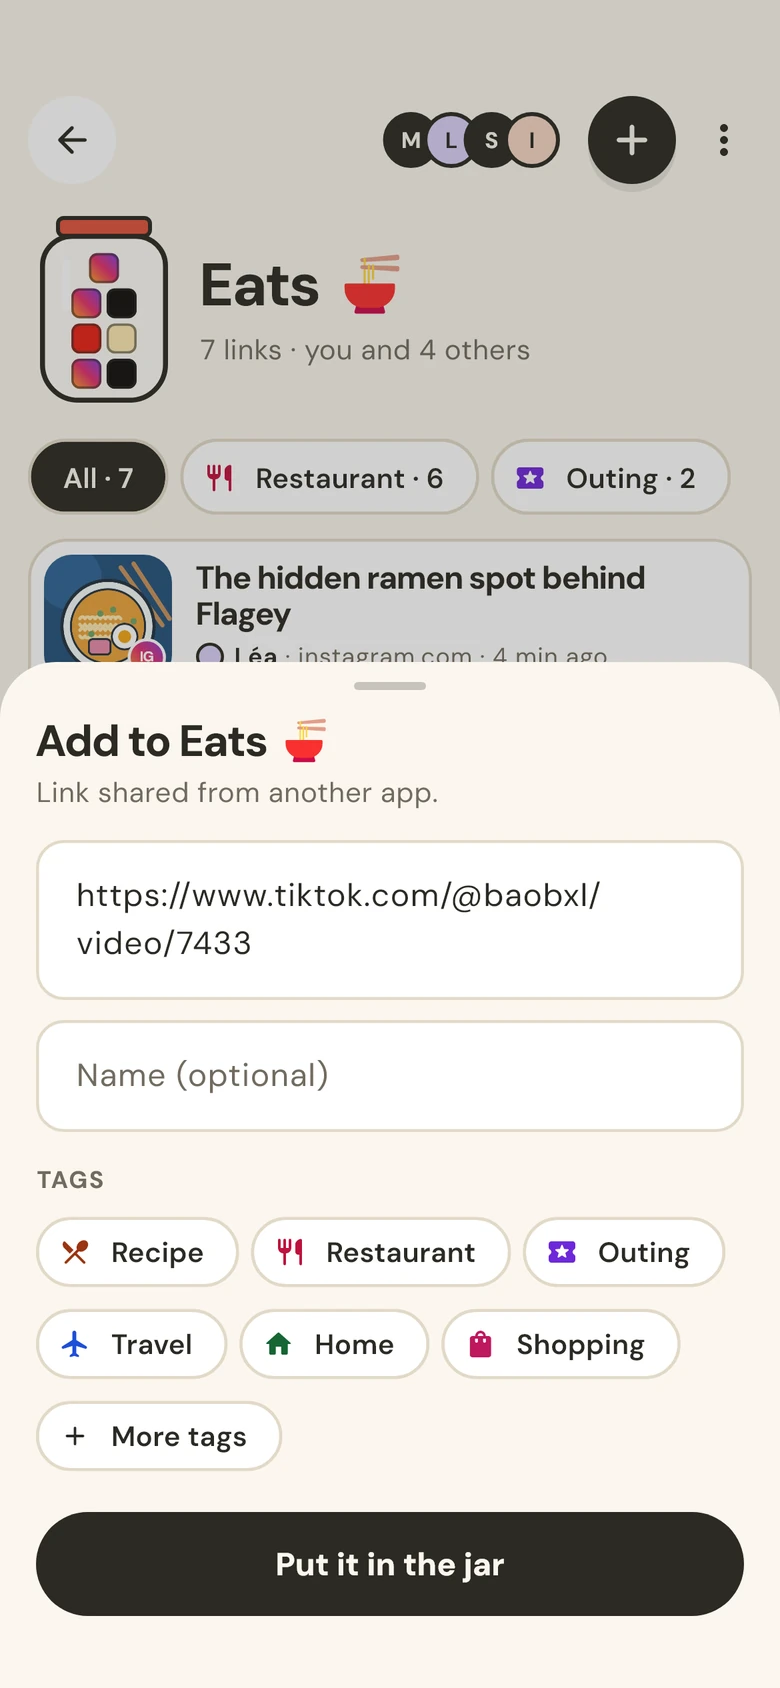
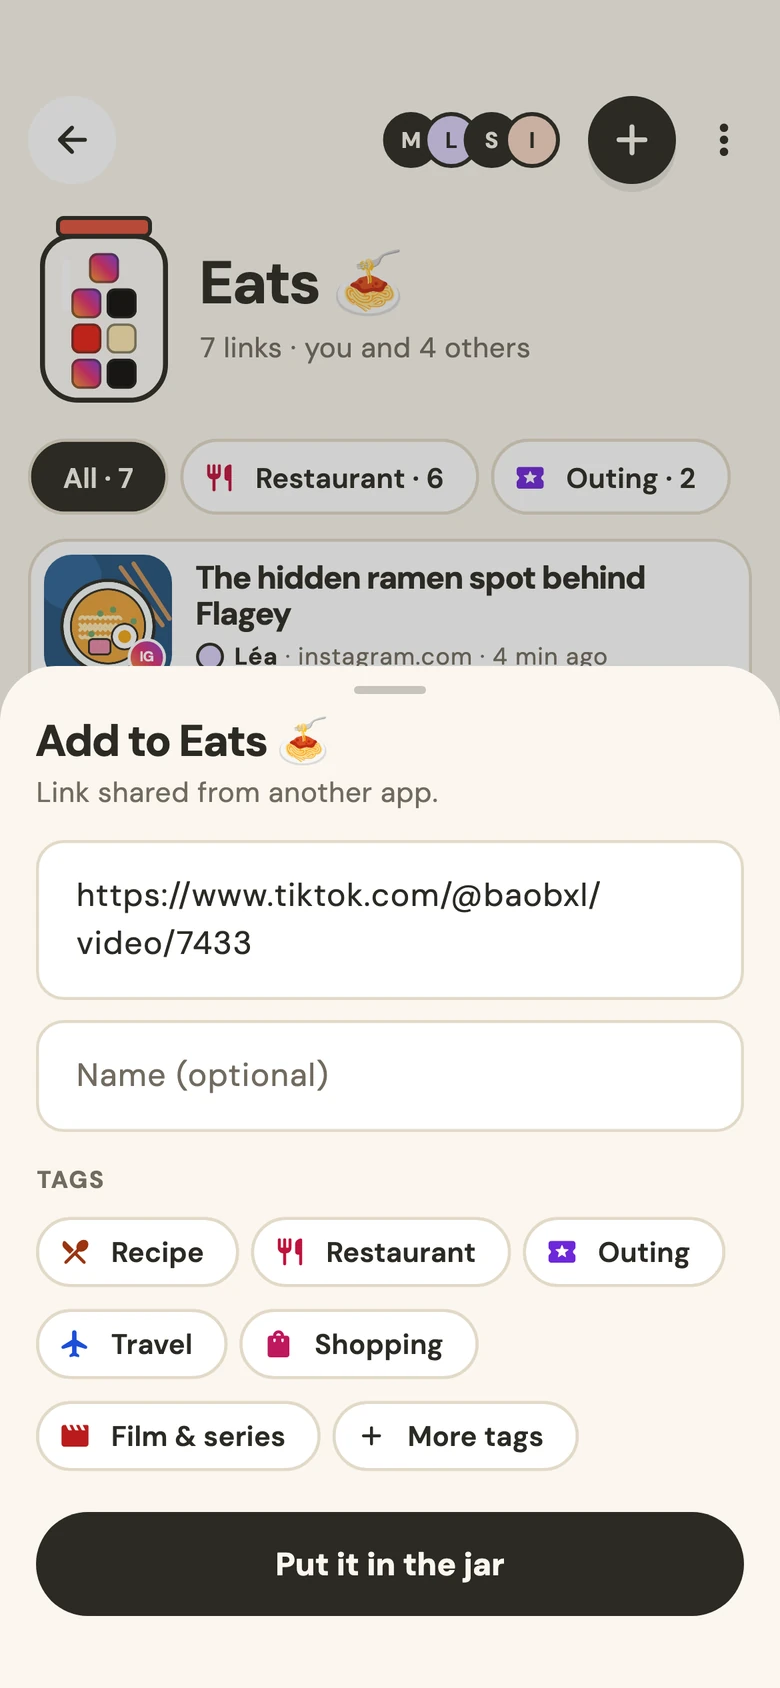
Atelier, bocaux et captures limités à l'offre gratuite

diff --git a/index.html b/index.html
@@ -104,7 +104,7 @@
             <span><b>La meilleure pizza de Gand ?</b><small>Sam · il y a 2 h</small></span>
           </div>
           <div class="float-jar fj-1" style="--z:70px" data-jar='{"lid":"#4D96D9","label":"Week-end ✈","tokens":["ig","p3","yt","tt","p1"]}'></div>
-          <div class="float-jar fj-2" style="--z:110px" data-jar='{"lid":"#9B7FD9","label":"Séries 🎬","tokens":["yt","p4","tt","yt","p0","ig"]}'></div>
+          <div class="float-jar fj-2" style="--z:110px" data-jar='{"lid":"#6FA36B","label":"Séries 🎬","tokens":["yt","p4","tt","yt","p0","ig"]}'></div>
           <div class="float-avatar fa-1" style="--z:150px;--c:#B197FC">L</div>
           <div class="float-avatar fa-2" style="--z:60px;--c:#F2C14E">I</div>
         </div>
@@ -223,7 +223,7 @@
             <div class="phone" data-screen="invite"></div>
             <div class="invite-bubble" style="--z:110px">
               <span class="ib-who">Max</span>
-              <span class="ib-text">Viens dans mon bocal Restos 🍜</span>
+              <span class="ib-text">Viens dans mon bocal Restos 🍝</span>
               <span class="ib-card"><b>Rejoins mon bocal</b><small>Code K7QMP-3XAB4</small></span>
             </div>
             <div class="invite-members" style="--z:80px">
@@ -251,9 +251,9 @@
             <h3>Qui a ajouté quoi</h3>
             <p>Chaque lien garde le prénom de qui l'a ajouté, et quand.</p>
             <div class="mini-feed">
-              <div class="mf-row"><img src="img/dishes/sushi.webp" alt="" width="96" height="96"><span><b>Sam</b> a ajouté « Sushis : l'adresse qu'on garde pour nous » dans Restos 🍜 <i>· à l'instant</i></span></div>
-              <div class="mf-row"><img src="img/dishes/burger.webp" alt="" width="96" height="96"><span><b>Inès</b> a ajouté « Le smash burger dont tout le monde parle » dans Restos 🍜 <i>· à l'instant</i></span></div>
-              <div class="mf-row"><img src="img/dishes/mezze.webp" alt="" width="96" height="96"><span><b>Léa</b> a ajouté « Mezze libanais à partager » dans Restos 🍜 <i>· à l'instant</i></span></div>
+              <div class="mf-row"><img src="img/dishes/sushi.webp" alt="" width="96" height="96"><span><b>Sam</b> a ajouté « Sushis : l'adresse qu'on garde pour nous » dans Restos 🍝 <i>· à l'instant</i></span></div>
+              <div class="mf-row"><img src="img/dishes/burger.webp" alt="" width="96" height="96"><span><b>Inès</b> a ajouté « Le smash burger dont tout le monde parle » dans Restos 🍝 <i>· à l'instant</i></span></div>
+              <div class="mf-row"><img src="img/dishes/mezze.webp" alt="" width="96" height="96"><span><b>Léa</b> a ajouté « Mezze libanais à partager » dans Restos 🍝 <i>· à l'instant</i></span></div>
             </div>
           </div>
           <div class="tile tile-dup reveal" style="--d:3">

diff --git a/nl/index.html b/nl/index.html
@@ -104,7 +104,7 @@
             <span><b>De beste pizza van Gent?</b><small>Sam · 2 u geleden</small></span>
           </div>
           <div class="float-jar fj-1" style="--z:70px" data-jar='{"lid":"#4D96D9","label":"Weekend ✈","tokens":["ig","p3","yt","tt","p1"]}'></div>
-          <div class="float-jar fj-2" style="--z:110px" data-jar='{"lid":"#9B7FD9","label":"Series 🎬","tokens":["yt","p4","tt","yt","p0","ig"]}'></div>
+          <div class="float-jar fj-2" style="--z:110px" data-jar='{"lid":"#6FA36B","label":"Series 🎬","tokens":["yt","p4","tt","yt","p0","ig"]}'></div>
           <div class="float-avatar fa-1" style="--z:150px;--c:#B197FC">L</div>
           <div class="float-avatar fa-2" style="--z:60px;--c:#F2C14E">I</div>
         </div>
@@ -223,7 +223,7 @@
             <div class="phone" data-screen="invite"></div>
             <div class="invite-bubble" style="--z:110px">
               <span class="ib-who">Max</span>
-              <span class="ib-text">Kom in mijn bokaal Restos 🍜</span>
+              <span class="ib-text">Kom in mijn bokaal Restos 🍝</span>
               <span class="ib-card"><b>Doe mee met mijn bokaal</b><small>Code K7QMP-3XAB4</small></span>
             </div>
             <div class="invite-members" style="--z:80px">
@@ -251,9 +251,9 @@
             <h3>Wie wat toevoegde</h3>
             <p>Elke link bewaart de voornaam van wie hem toevoegde, en wanneer.</p>
             <div class="mini-feed">
-              <div class="mf-row"><img src="../img/dishes/sushi.webp" alt="" width="96" height="96"><span><b>Sam</b> voegde ‘Sushi: het adresje dat we voor onszelf houden’ toe aan Restos 🍜 <i>· zonet</i></span></div>
-              <div class="mf-row"><img src="../img/dishes/burger.webp" alt="" width="96" height="96"><span><b>Inès</b> voegde ‘De smashburger waar iedereen over praat’ toe aan Restos 🍜 <i>· zonet</i></span></div>
-              <div class="mf-row"><img src="../img/dishes/mezze.webp" alt="" width="96" height="96"><span><b>Léa</b> voegde ‘Libanese mezze om te delen’ toe aan Restos 🍜 <i>· zonet</i></span></div>
+              <div class="mf-row"><img src="../img/dishes/sushi.webp" alt="" width="96" height="96"><span><b>Sam</b> voegde ‘Sushi: het adresje dat we voor onszelf houden’ toe aan Restos 🍝 <i>· zonet</i></span></div>
+              <div class="mf-row"><img src="../img/dishes/burger.webp" alt="" width="96" height="96"><span><b>Inès</b> voegde ‘De smashburger waar iedereen over praat’ toe aan Restos 🍝 <i>· zonet</i></span></div>
+              <div class="mf-row"><img src="../img/dishes/mezze.webp" alt="" width="96" height="96"><span><b>Léa</b> voegde ‘Libanese mezze om te delen’ toe aan Restos 🍝 <i>· zonet</i></span></div>
             </div>
           </div>
           <div class="tile tile-dup reveal" style="--d:3">

diff --git a/en/index.html b/en/index.html
@@ -104,7 +104,7 @@
             <span><b>The best pizza in Ghent?</b><small>Sam · 2 h ago</small></span>
           </div>
           <div class="float-jar fj-1" style="--z:70px" data-jar='{"lid":"#4D96D9","label":"Weekend ✈","tokens":["ig","p3","yt","tt","p1"]}'></div>
-          <div class="float-jar fj-2" style="--z:110px" data-jar='{"lid":"#9B7FD9","label":"Series 🎬","tokens":["yt","p4","tt","yt","p0","ig"]}'></div>
+          <div class="float-jar fj-2" style="--z:110px" data-jar='{"lid":"#6FA36B","label":"Series 🎬","tokens":["yt","p4","tt","yt","p0","ig"]}'></div>
           <div class="float-avatar fa-1" style="--z:150px;--c:#B197FC">L</div>
           <div class="float-avatar fa-2" style="--z:60px;--c:#F2C14E">I</div>
         </div>
@@ -223,7 +223,7 @@
             <div class="phone" data-screen="invite"></div>
             <div class="invite-bubble" style="--z:110px">
               <span class="ib-who">Max</span>
-              <span class="ib-text">Come join my Eats jar 🍜</span>
+              <span class="ib-text">Come join my Eats jar 🍝</span>
               <span class="ib-card"><b>Join my jar</b><small>Code K7QMP-3XAB4</small></span>
             </div>
             <div class="invite-members" style="--z:80px">
@@ -251,9 +251,9 @@
             <h3>Who added what</h3>
             <p>Every link keeps the first name of whoever added it, and when.</p>
             <div class="mini-feed">
-              <div class="mf-row"><img src="../img/dishes/sushi.webp" alt="" width="96" height="96"><span><b>Sam</b> added “Sushi: the spot we keep to ourselves” to Eats 🍜 <i>· just now</i></span></div>
-              <div class="mf-row"><img src="../img/dishes/burger.webp" alt="" width="96" height="96"><span><b>Inès</b> added “The smash burger everyone's talking about” to Eats 🍜 <i>· just now</i></span></div>
-              <div class="mf-row"><img src="../img/dishes/mezze.webp" alt="" width="96" height="96"><span><b>Léa</b> added “Lebanese mezze to share” to Eats 🍜 <i>· just now</i></span></div>
+              <div class="mf-row"><img src="../img/dishes/sushi.webp" alt="" width="96" height="96"><span><b>Sam</b> added “Sushi: the spot we keep to ourselves” to Eats 🍝 <i>· just now</i></span></div>
+              <div class="mf-row"><img src="../img/dishes/burger.webp" alt="" width="96" height="96"><span><b>Inès</b> added “The smash burger everyone's talking about” to Eats 🍝 <i>· just now</i></span></div>
+              <div class="mf-row"><img src="../img/dishes/mezze.webp" alt="" width="96" height="96"><span><b>Léa</b> added “Lebanese mezze to share” to Eats 🍝 <i>· just now</i></span></div>
             </div>
           </div>
           <div class="tile tile-dup reveal" style="--d:3">

diff --git a/site.js b/site.js
@@ -263,10 +263,10 @@
     else tiltRunning = false;
   }
 
-  const LIDS = ['#E0533D', '#4D96D9', '#F2C14E', '#6FA36B', '#9B7FD9', '#E68AA8', '#EE8A3C', '#2B1D12']
+  const LIDS = ['#E0533D', '#4D96D9', '#F2C14E', '#6FA36B']
     .map((color, i) => [i, t('colors')[i], color]);
-  const EMOJIS = ['🍝', '🍰', '🍷', '✈', '🏖', '🏠', '🛋', '🎁', '🎬', '📚', '🎵', '🌿'];
-  const builder = { lid: '#E0533D', emoji: '🍝', name: t('builderName'), tokens: ['pizza', 'pancakes', 'icecream', 'tacos', 'banhmi'] };
+  const EMOJIS = ['🫙', '🍝', '🍰', '✈', '🏠', '🎁', '🎬', '📚', '🎵', '❤'];
+  const builder = { lid: '#E0533D', emoji: '🍰', name: t('builderName'), tokens: ['pizza', 'pancakes', 'icecream', 'tacos', 'banhmi'] };
   const builderJar = $('#builder-jar');
   const nameInput = $('#builder-name');
 
@@ -349,12 +349,12 @@
   ];
 
   function renderLive(fresh) {
-    live.jar.innerHTML = jarSVG({ lid: '#E0533D', label: `${t('jarRestos')} 🍜`, tokens: live.tokens, fresh });
+    live.jar.innerHTML = jarSVG({ lid: '#E0533D', label: `${t('jarRestos')} 🍝`, tokens: live.tokens, fresh });
   }
 
   function feedRow(a) {
     const li = document.createElement('li');
-    li.innerHTML = `<img src="${A}img/dishes/${a.dish}.webp" alt="" width="96" height="96"><span>${t('added')(a.who, escapeHtml(a.title), `${t('jarRestos')} 🍜`)}</span>`;
+    li.innerHTML = `<img src="${A}img/dishes/${a.dish}.webp" alt="" width="96" height="96"><span>${t('added')(a.who, escapeHtml(a.title), `${t('jarRestos')} 🍝`)}</span>`;
     return li;
   }
 
@@ -500,8 +500,8 @@
   if (ctaShelf) {
     const holder = $('.cta-jars', ctaShelf);
     const jars = [
-      { lid: '#F2C14E', label: `${t('jarRecettes')} 🍝`, tokens: ['p1', 'yt', 'ig', 'p2', 'tt'] },
-      { lid: '#E0533D', label: `${t('jarRestos')} 🍜`, tokens: ['pizza', 'pancakes', 'wine', 'banhmi', 'tacos', 'ramen', 'bao'] },
+      { lid: '#F2C14E', label: `${t('jarRecettes')} 🍰`, tokens: ['p1', 'yt', 'ig', 'p2', 'tt'] },
+      { lid: '#E0533D', label: `${t('jarRestos')} 🍝`, tokens: ['pizza', 'pancakes', 'wine', 'banhmi', 'tacos', 'ramen', 'bao'] },
       { lid: '#4D96D9', label: `${t('jarWeekend')} ✈`, tokens: ['ig', 'p3', 'yt', 'p0'] },
     ];
     jars.forEach((cfg, i) => {

diff --git a/room.js b/room.js
@@ -51,8 +51,7 @@
     brass: hex('#8A6A3C'),
   };
   const LIDS = {
-    tomate: hex('#E0533D'), soleil: hex('#F2C14E'), ciel: hex('#4D96D9'),
-    lavande: hex('#9B7FD9'), sauge: hex('#6FA36B'), rose: hex('#E68AA8'),
+    tomate: hex('#E0533D'), soleil: hex('#F2C14E'), ciel: hex('#4D96D9'), sauge: hex('#6FA36B'),
   };
   const PASTELS = ['#F9DDD5', '#FCE8B2', '#D6EBD3', '#DCE9F7', '#E8DFF8'].map(hex);
 
@@ -352,12 +351,12 @@
   const tokenKinds = (n, s) => Array.from({ length: n }, (_, i) => ['ig', 'tt', 'yt', 'p0', 'p1', 'p2', 'p3', 'p4', 'ig', 'yt'][(i * 7 + s) % 10]);
 
   const jars = [
-    { name: t('jarRecettes'), emoji: '🍝', lid: 'soleil', x: -32, plank: 1, tokens: tokenKinds(9, 1) },
-    { name: t('jarRestos'), emoji: '🍜', lid: 'tomate', x: 0, plank: 1, tokens: ['pizza', 'pancakes', 'wine', 'banhmi', 'tacos', 'icecream', 'bao'] },
+    { name: t('jarRecettes'), emoji: '🍰', lid: 'soleil', x: -32, plank: 1, tokens: tokenKinds(9, 1) },
+    { name: t('jarRestos'), emoji: '🍝', lid: 'tomate', x: 0, plank: 1, tokens: ['pizza', 'pancakes', 'wine', 'banhmi', 'tacos', 'icecream', 'bao'] },
     { name: t('jarWeekend'), emoji: '✈', lid: 'ciel', x: 32, plank: 1, tokens: tokenKinds(5, 4) },
-    { name: t('jarSeries'), emoji: '🎬', lid: 'lavande', x: -30, plank: 0, tokens: tokenKinds(6, 2) },
-    { name: t('jarDeco'), emoji: '🛋', lid: 'sauge', x: 2, plank: 0, tokens: tokenKinds(4, 6) },
-    { name: t('jarCadeaux'), emoji: '🎁', lid: 'rose', x: 32, plank: 0, tokens: tokenKinds(3, 3) },
+    { name: t('jarSeries'), emoji: '🎬', lid: 'sauge', x: -30, plank: 0, tokens: tokenKinds(6, 2) },
+    { name: t('jarDeco'), emoji: '🏠', lid: 'tomate', x: 2, plank: 0, tokens: tokenKinds(4, 6) },
+    { name: t('jarCadeaux'), emoji: '🎁', lid: 'soleil', x: 32, plank: 0, tokens: tokenKinds(3, 3) },
   ].map((j) => {
     const w = JW;
     const slots = [];

diff --git a/i18n.js b/i18n.js
@@ -7,7 +7,7 @@
       soundOn: 'Activer le son',
       altHome: "L'accueil de Bocal : six bocaux sur deux étagères, Restos, Recettes, Week-end, Séries, Déco et Cadeaux.",
       altInvite: "La feuille « Inviter dans Restos » avec un QR code, le code K7QMP-3XAB4 et le bouton « Envoyer le lien ».",
-      colors: ['Tomate', 'Ciel', 'Soleil', 'Sauge', 'Lavande', 'Rose', 'Mandarine', 'Encre'],
+      colors: ['Tomate', 'Ciel', 'Soleil', 'Sauge'],
       builderName: 'Recettes',
       myJar: 'Mon bocal',
       emoji: 'Emoji',
@@ -45,7 +45,7 @@
       soundOn: 'Turn sound on',
       altHome: 'The Bocal home screen: six jars on two shelves, Eats, Recipes, Weekend, Series, Decor and Gifts.',
       altInvite: 'The “Invite to Eats” sheet with a QR code, the code K7QMP-3XAB4 and the “Send the link” button.',
-      colors: ['Tomato', 'Sky', 'Sun', 'Sage', 'Lavender', 'Pink', 'Tangerine', 'Ink'],
+      colors: ['Tomato', 'Sky', 'Sun', 'Sage'],
       builderName: 'Recipes',
       myJar: 'My jar',
       emoji: 'Emoji',
@@ -83,7 +83,7 @@
       soundOn: 'Geluid aan',
       altHome: 'Het startscherm van Bocal: zes bokalen op twee planken, Restos, Recepten, Weekend, Series, Deco en Cadeaus.',
       altInvite: 'Het blad ‘Uitnodigen in Restos’ met een QR-code, de code K7QMP-3XAB4 en de knop ‘Link versturen’.',
-      colors: ['Tomaat', 'Hemel', 'Zon', 'Salie', 'Lavendel', 'Roze', 'Mandarijn', 'Inkt'],
+      colors: ['Tomaat', 'Hemel', 'Zon', 'Salie'],
       builderName: 'Recepten',
       myJar: 'Mijn bokaal',
       emoji: 'Emoji',
